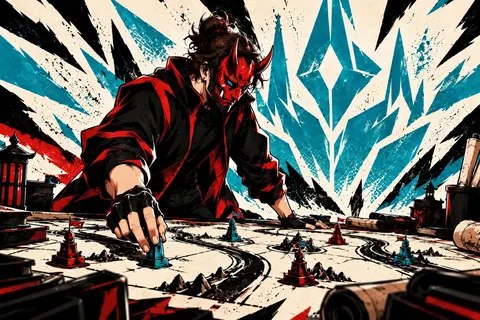
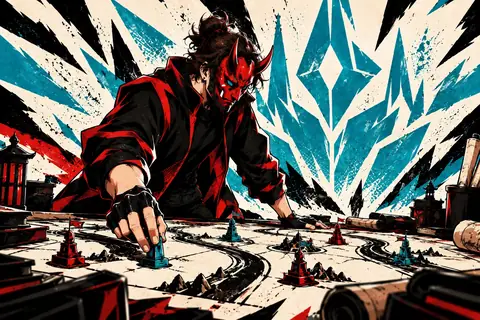
Perf : images de l'accueil et des cartes de recrutement allégées (tailles adaptées au mobile), contraste de l'étiquette « Roster ouvert »

Changed region(s): [[0.6562, 0.6875, 0.6875, 0.7188]]

diff --git a/src/lib/img.js b/src/lib/img.js
@@ -21,7 +21,7 @@ export const variants = {
   'entete-boosters': [800, 2000],
   'entete-inhouses': [800, 2000],
   'album-couverture': [560, 1122],
-  'accueil-album': [560, 1122],
+  'accueil-album': [400, 560, 840, 1122],
   'accueil-inhouses': [800, 1586],
   'recrutement-staff-bloc': [530, 1060],
   'kanji-oni-pinceau': [600, 1100],
